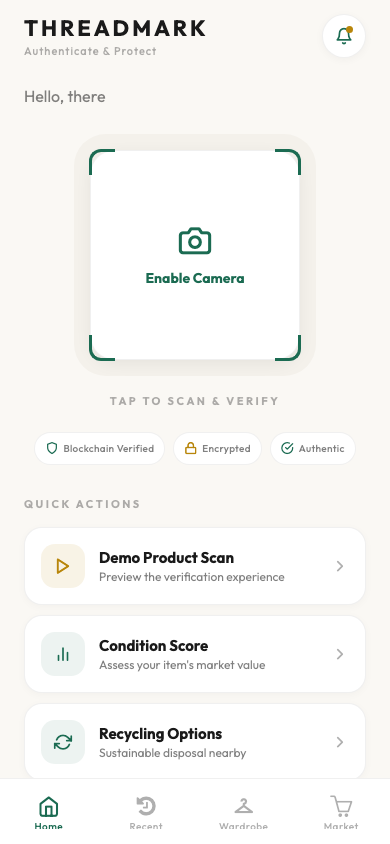
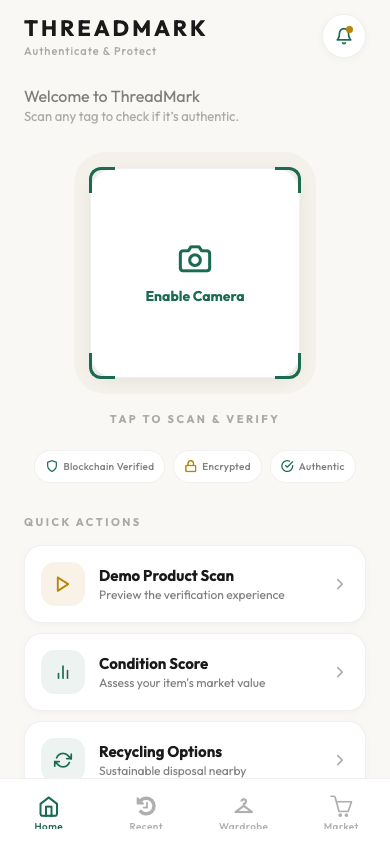
Polish home first-run greeting for new users
- Show 'Welcome to ThreadMark' with a scan prompt when no user is signed in
- Keep personalized 'Hello, {name}' for returning users

diff --git a/app/(tabs)/home.tsx b/app/(tabs)/home.tsx
@@ -118,7 +118,7 @@ export default function Home() {
     }
   };
 
-  const greetingName = userDetail?.name ? userDetail.name.split(' ')[0] : 'there';
+  const firstName = userDetail?.name ? userDetail.name.split(' ')[0] : null;
 
   return (
     <SafeAreaView style={styles.safe} edges={['top']}>
@@ -138,7 +138,10 @@ export default function Home() {
         </View>
 
         {/* Greeting */}
-        <Text style={styles.greeting}>Hello, {greetingName}</Text>
+        <Text style={styles.greeting}>{firstName ? `Hello, ${firstName}` : 'Welcome to ThreadMark'}</Text>
+        <Text style={styles.greetingSub}>
+          {firstName ? 'Scan a QR code to verify an item.' : 'Scan any tag to check if it’s authentic.'}
+        </Text>
 
         {/* Scan Section */}
         <View style={styles.scanSection}>
@@ -337,6 +340,13 @@ const styles = StyleSheet.create({
     fontFamily: 'outfit-regular',
     paddingHorizontal: 24,
     marginTop: 28,
+  },
+  greetingSub: {
+    color: Colors.TEXT_MUTED,
+    fontSize: 13,
+    fontFamily: 'outfit-regular',
+    paddingHorizontal: 24,
+    marginTop: 2,
   },
   scanSection: {
     alignItems: 'center',